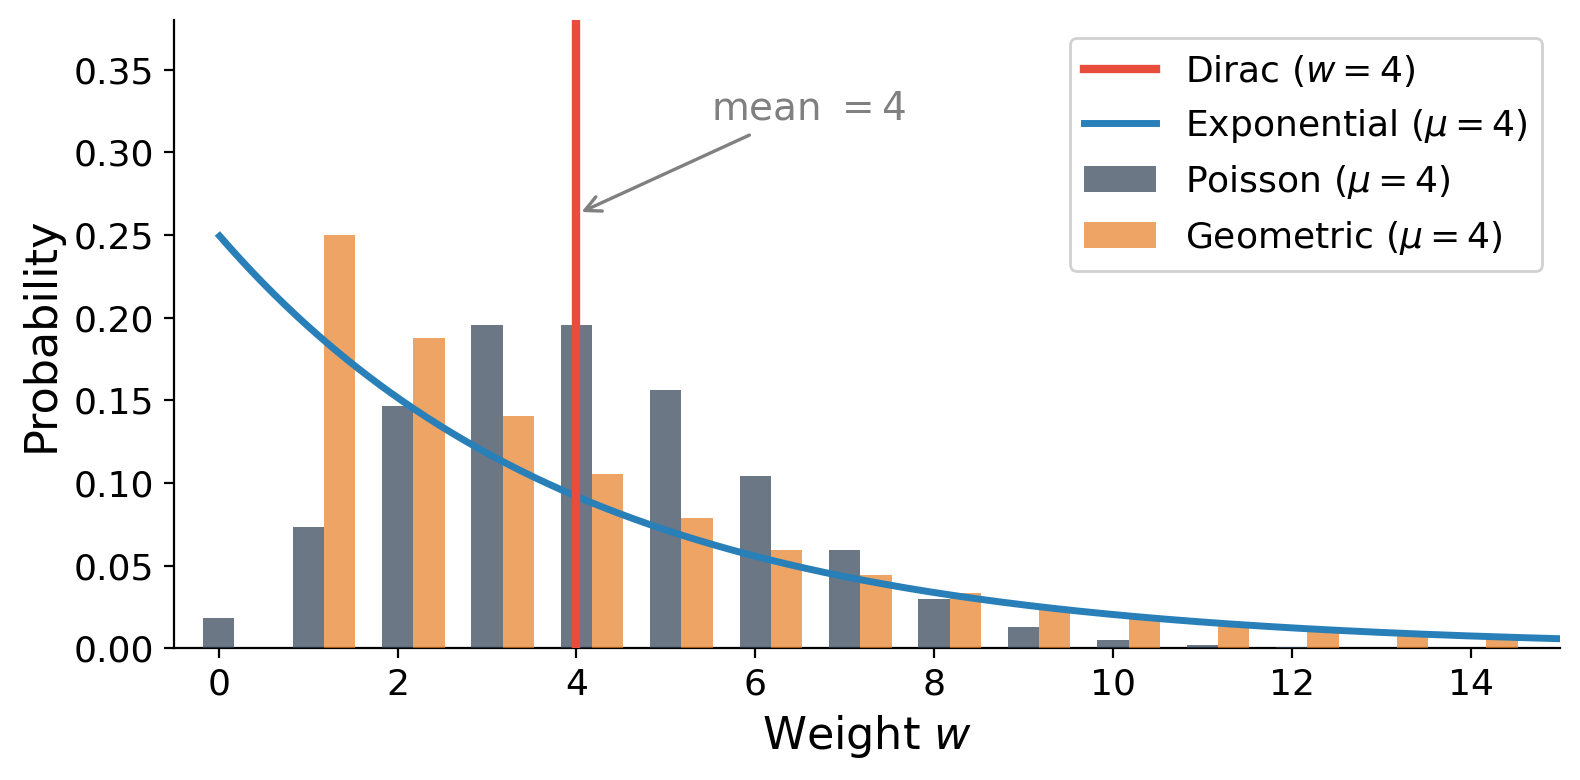
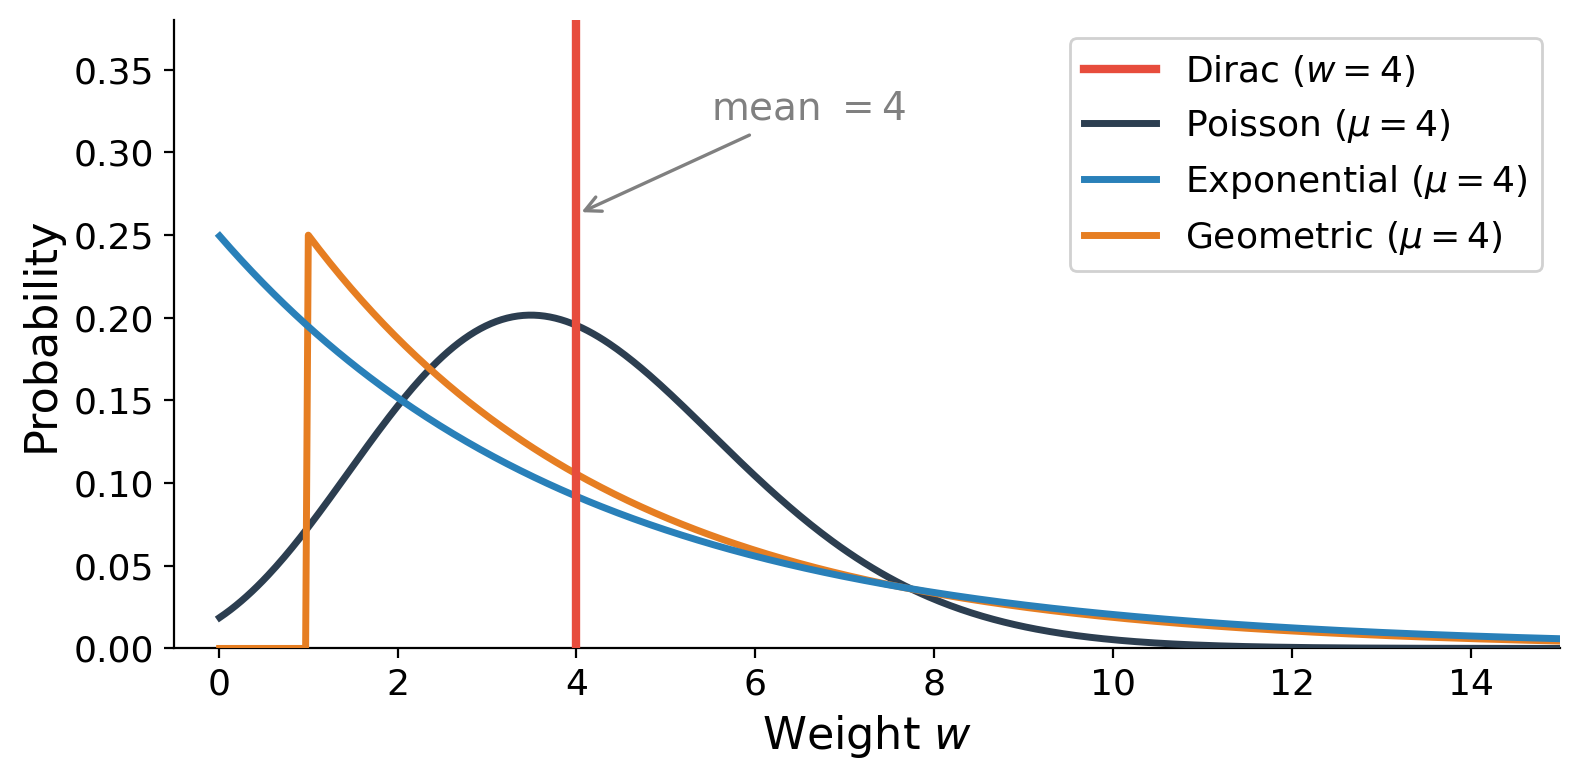
Switch distribution plot from bars to continuous lines

diff --git a/scripts/plot_distributions.py b/scripts/plot_distributions.py
@@ -14,20 +14,21 @@ x_disc = np.arange(0, 16)
 # Dirac delta at W
 ax.axvline(W, color="#e74c3c", linewidth=3, label=f"Dirac ($w = {W}$)", zorder=5)
 
-# Poisson (mean = W)
-pmf_poisson = poisson.pmf(x_disc, mu=W)
-ax.bar(x_disc, pmf_poisson, width=0.35, color="#2c3e50", alpha=0.7, label=f"Poisson ($\\mu = {W}$)", zorder=3)
+# Poisson (mean = W) — continuous interpolation
+from scipy.special import gamma as gammafn
+pdf_poisson = np.exp(x_cont * np.log(W) - W - np.log(gammafn(x_cont + 1)))
+ax.plot(x_cont, pdf_poisson, color="#2c3e50", linewidth=2.5, label=f"Poisson ($\\mu = {W}$)", zorder=3)
 
 # Exponential (mean = W)
 pdf_exp = expon.pdf(x_cont, scale=W)
 ax.plot(x_cont, pdf_exp, color="#2980b9", linewidth=2.5, label=f"Exponential ($\\mu = {W}$)", zorder=4)
 
-# Geometric (mean = W), supported on {1, 2, 3, ...}
-# Geometric with mean W: p = 1/W
+# Geometric (mean = W) — continuous interpolation
+# pmf: p(1-p)^{k-1} for k=1,2,...  → extend to continuous k
 p_geom = 1.0 / W
-x_geom = np.arange(1, 16)
-pmf_geom = geom.pmf(x_geom, p_geom)
-ax.bar(x_geom + 0.35, pmf_geom, width=0.35, color="#e67e22", alpha=0.7, label=f"Geometric ($\\mu = {W}$)", zorder=3)
+pdf_geom = p_geom * (1 - p_geom) ** (x_cont - 1)
+pdf_geom[x_cont < 1] = 0
+ax.plot(x_cont, pdf_geom, color="#e67e22", linewidth=2.5, label=f"Geometric ($\\mu = {W}$)", zorder=3)
 
 # Signed Bernoulli: w ∈ {-1, +1} with P(+1) = (W+1)/2, P(-1) = (1-W)/2...
 # Only works for |W| ≤ 1, so use W=0.5 variant or skip.